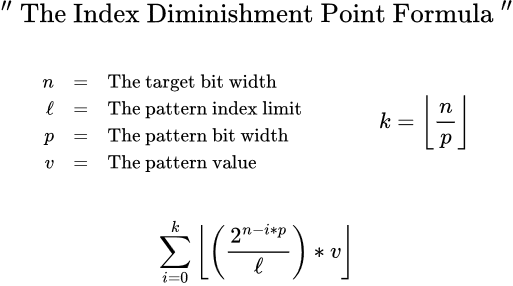
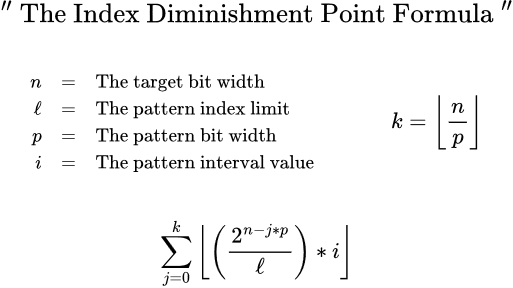
Picked better variable names =)

diff --git a/enigma2/assets/diminishmentPoint.tex b/enigma2/assets/diminishmentPoint.tex
@@ -5,11 +5,11 @@
     𝑛 & = & \text{The target bit width} \\
     ℓ & = & \text{The pattern index limit} \\
     p & = & \text{The pattern bit width} \\
-    𝑣 & = & \text{The pattern value}
+    i & = & \text{The pattern value}
 \end{array}
 \qquad
 \qquad
 \normalsize
 k = \left\lfloor \frac{𝑛}{p} \right\rfloor \\\\
-\sum_{i=0}^{k}
-\left\lfloor\left(\dfrac{2^{n-i*p}}{ℓ}\right)*v \right\rfloor
+\sum_{j=0}^{k}
+\left\lfloor\left(\dfrac{2^{n-j*p}}{ℓ}\right)*i \right\rfloor
